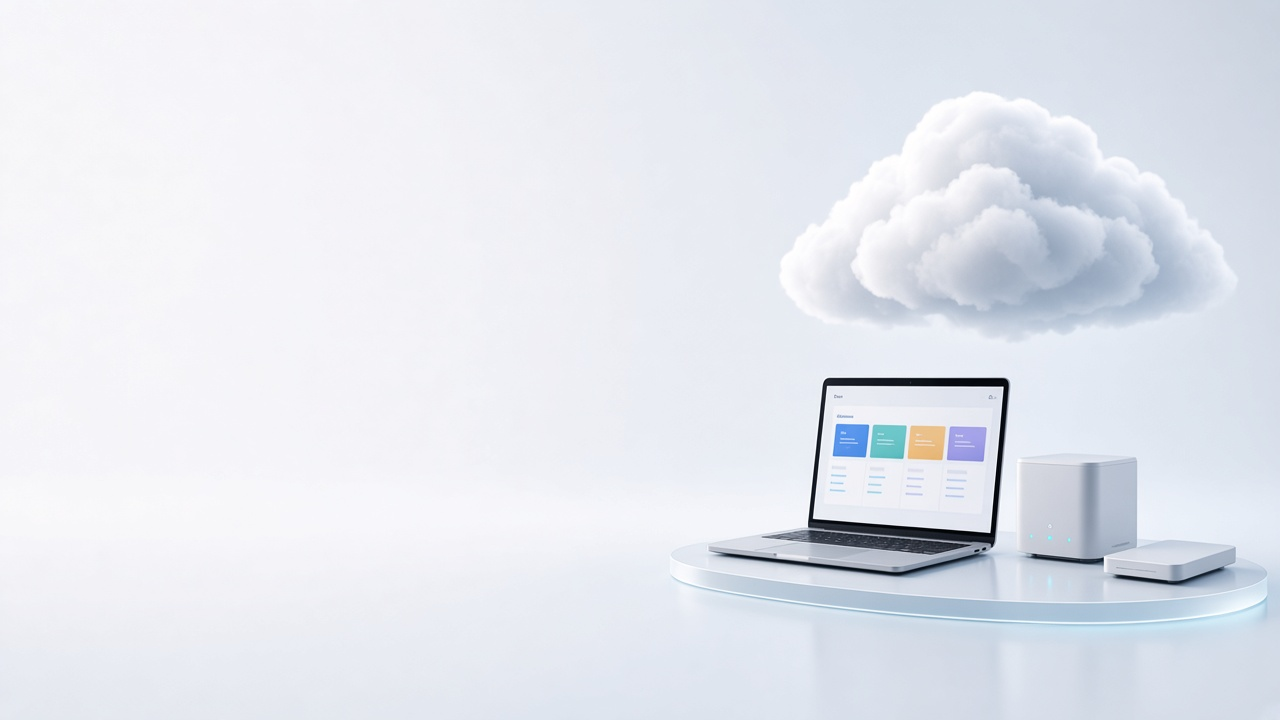
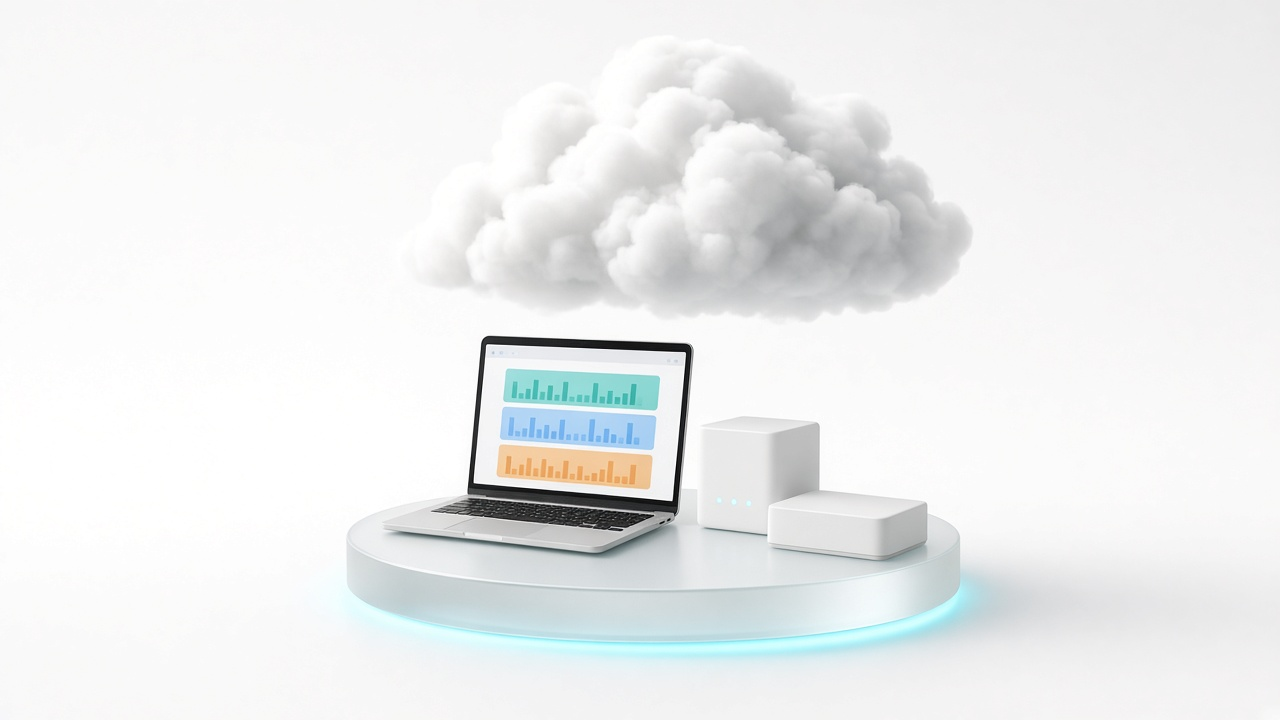
Show a distinct cloud scene on the solutions hero.
Replace the washed-out photo and keep the subject visible between the side fades.

diff --git a/web/src/storefront/components/solutions/CloudSolutionLanding.tsx b/web/src/storefront/components/solutions/CloudSolutionLanding.tsx
@@ -202,7 +202,7 @@ export function CloudSolutionLanding({ featured }: Props) {
             fill
             priority
             sizes="(min-width: 1200px) 1200px, 100vw"
-            className="pointer-events-none object-cover object-right"
+            className="pointer-events-none origin-left scale-[1.22] object-cover object-center"
           />
           <div
             aria-hidden
@@ -217,7 +217,7 @@ export function CloudSolutionLanding({ featured }: Props) {
             className="pointer-events-none absolute inset-0 hidden lg:block"
             style={{
               background:
-                "linear-gradient(90deg, #ffffff 0%, #ffffff 36%, rgba(255,255,255,0.9) 48%, rgba(255,255,255,0.35) 64%, rgba(255,255,255,0) 78%)",
+                "linear-gradient(90deg, #ffffff 0%, #ffffff 30%, rgba(255,255,255,0.92) 42%, rgba(255,255,255,0.28) 54%, rgba(255,255,255,0) 64%)",
             }}
           />
           <div
@@ -225,7 +225,7 @@ export function CloudSolutionLanding({ featured }: Props) {
             className="pointer-events-none absolute inset-0"
             style={{
               background:
-                "linear-gradient(90deg, rgba(255,255,255,0) 0%, rgba(255,255,255,0) 68%, rgba(255,255,255,0.28) 80%, rgba(255,255,255,0.72) 91%, #ffffff 100%)",
+                "linear-gradient(90deg, rgba(255,255,255,0) 0%, rgba(255,255,255,0) 78%, rgba(255,255,255,0.4) 88%, rgba(255,255,255,0.82) 95%, #ffffff 100%)",
             }}
           />
           <div className="relative">
